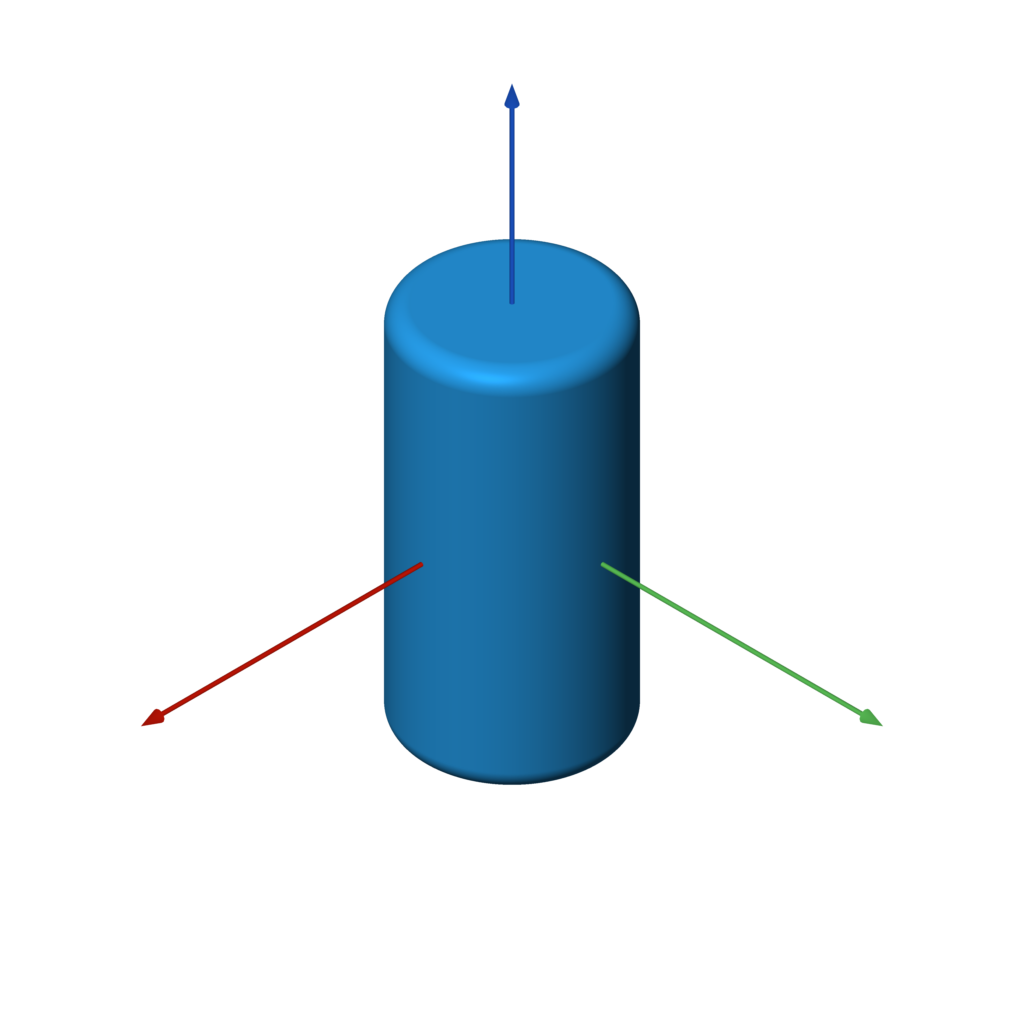
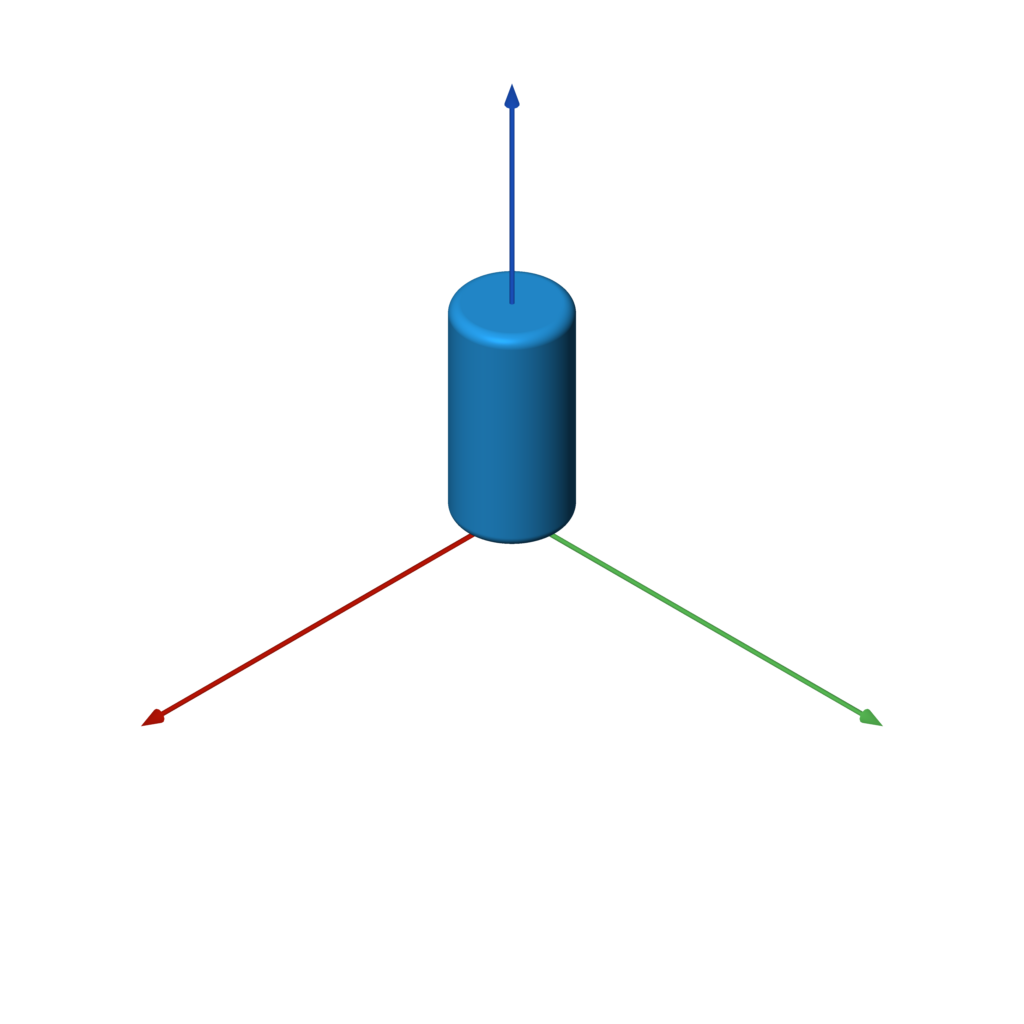
add comments

Changed region(s): [[0.375, 0.2188, 0.625, 0.7812]]

diff --git a/sdf/d3.py b/sdf/d3.py
@@ -133,19 +133,20 @@ def box(size=1, center=ORIGIN, a=None, b=None):
     return f
 
 @sdf3
-def rounded_box(size, radius):
+def rounded_box(size, radius, center=ORIGIN):
     size = np.array(size)
     def f(p):
-        q = np.abs(p) - size / 2 + radius
+        q = np.abs(p-center) - size / 2 + radius
         return _length(_max(q, 0)) + _min(np.amax(q, axis=1), 0) - radius
     return f
 
 @sdf3
-def wireframe_box(size, thickness):
+def wireframe_box(size, thickness, center=ORIGIN):
     size = np.array(size)
     def g(a, b, c):
         return _length(_max(_vec(a, b, c), 0)) + _min(_max(a, _max(b, c)), 0)
     def f(p):
+        p = p - center
         p = np.abs(p) - size / 2 - thickness / 2
         q = np.abs(p + thickness / 2) - thickness / 2
         px, py, pz = p[:,0], p[:,1], p[:,2]
@@ -203,11 +204,13 @@ def capped_cylinder(a, b, radius):
     return f
 
 @sdf3
-def rounded_cylinder(ra, rb, h):
+def rounded_cylinder(a, b, ra, rb):
+    h = abs(a - b)
+    z = (a + b) / 2
     def f(p):
         d = _vec(
             _length(p[:,[0,1]]) - ra + rb,
-            np.abs(p[:,2]) - h / 2 + rb)
+            np.abs(p[:,2] - z) - h / 2 + rb)
         return (
             _min(_max(d[:,0], d[:,1]), 0) +
             _length(_max(d, 0)) - rb)

diff --git a/docs/render.py b/docs/render.py
@@ -51,8 +51,8 @@ generate(f, 'capsule')
 f = capped_cylinder(-Z, Z, 0.5)
 generate(f, 'capped_cylinder')
 
-# rounded_cylinder(ra, rb, h)
-f = rounded_cylinder(0.5, 0.1, 2)
+# rounded_cylinder
+f = rounded_cylinder(0, 2, 0.5, 0.1)
 generate(f, 'rounded_cylinder')
 
 # capped_cone(a, b, ra, rb)

diff --git a/README.md b/README.md
@@ -301,6 +301,8 @@ See the [customizable box example](examples/customizable_box.py) for some starti
 
 ### sphere
 
+Draw a sphere with the radius centered around `center`, by default this is the origin (0,0,0).
+
 <img width=128 align="right" src="docs/images/sphere.png">
 
 `sphere(radius=1, center=ORIGIN)`
@@ -312,6 +314,8 @@ f = sphere(1, (1, 2, 3)) # translated sphere
 ```
 
 ### box
+
+Draw a 3D box with sides specified centered around `center`, by default this is the origin (0,0,0).
 
 <img width=128 align="right" src="docs/images/box2.png">
 
@@ -325,15 +329,20 @@ f = box(a=(-1, -1, -1), b=(3, 4, 5)) # specified by bounds
 
 ### rounded_box
 
+Draw a 3D rounded box with sides specified centered around `center`, by default this is the origin (0,0,0).  The radius of curvature is specified by `radius`.
+
 <img width=128 align="right" src="docs/images/rounded_box.png">
 
-`rounded_box(size, radius)`
+`rounded_box(size, radius, center=ORIGIN)`
 
 ```python
 f = rounded_box((1, 2, 3), 0.25)
 ```
 
 ### wireframe_box
+
+Draw a 3D box with round wires (diameter is specified by thickness) and centered around `center`, by default this is the origin (0,0,0).  The radius of curvature is specified by `radius`.
+
 <img width=128 align="right" src="docs/images/wireframe_box.png">
 
 `wireframe_box(size, thickness)`
@@ -343,6 +352,9 @@ f = wireframe_box((1, 2, 3), 0.05)
 ```
 
 ### torus
+
+torus is like a doughnut shape, like a circle with radius, `r2`, rotated around the `Z` axis at a radius, `r1`, from the center.
+
 <img width=128 align="right" src="docs/images/torus.png">
 
 `torus(r1, r2)`
@@ -352,6 +364,9 @@ f = torus(1, 0.25)
 ```
 
 ### capsule
+
+capsule is a cylinder with rounded ends extending from `-Z` to `Z` and having the radius, `radius`.
+
 <img width=128 align="right" src="docs/images/capsule.png">
 
 `capsule(a, b, radius)`
@@ -361,6 +376,9 @@ f = capsule(-Z, Z, 0.5)
 ```
 
 ### capped_cylinder
+
+capped_cylinder is a flat ended cylinder extending from `-Z` to `Z` and having the radius, `radius`.
+
 <img width=128 align="right" src="docs/images/capped_cylinder.png">
 
 `capped_cylinder(a, b, radius)`
@@ -370,12 +388,15 @@ f = capped_cylinder(-Z, Z, 0.5)
 ```
 
 ### rounded_cylinder
+
+rounded_cylinder is a flat ended cylinder with curved edges extending from `-Z` to `Z` and having the radius, `ra`, and the edges having a radius of `rb`.
+
 <img width=128 align="right" src="docs/images/rounded_cylinder.png">
 
-`rounded_cylinder(ra, rb, h)`
+`rounded_cylinder(-Z, Z, ra, rb)`
 
 ```python
-f = rounded_cylinder(0.5, 0.1, 2)
+f = rounded_cylinder(0, 2, 0.5, 0.1)
 ```
 
 ### capped_cone
